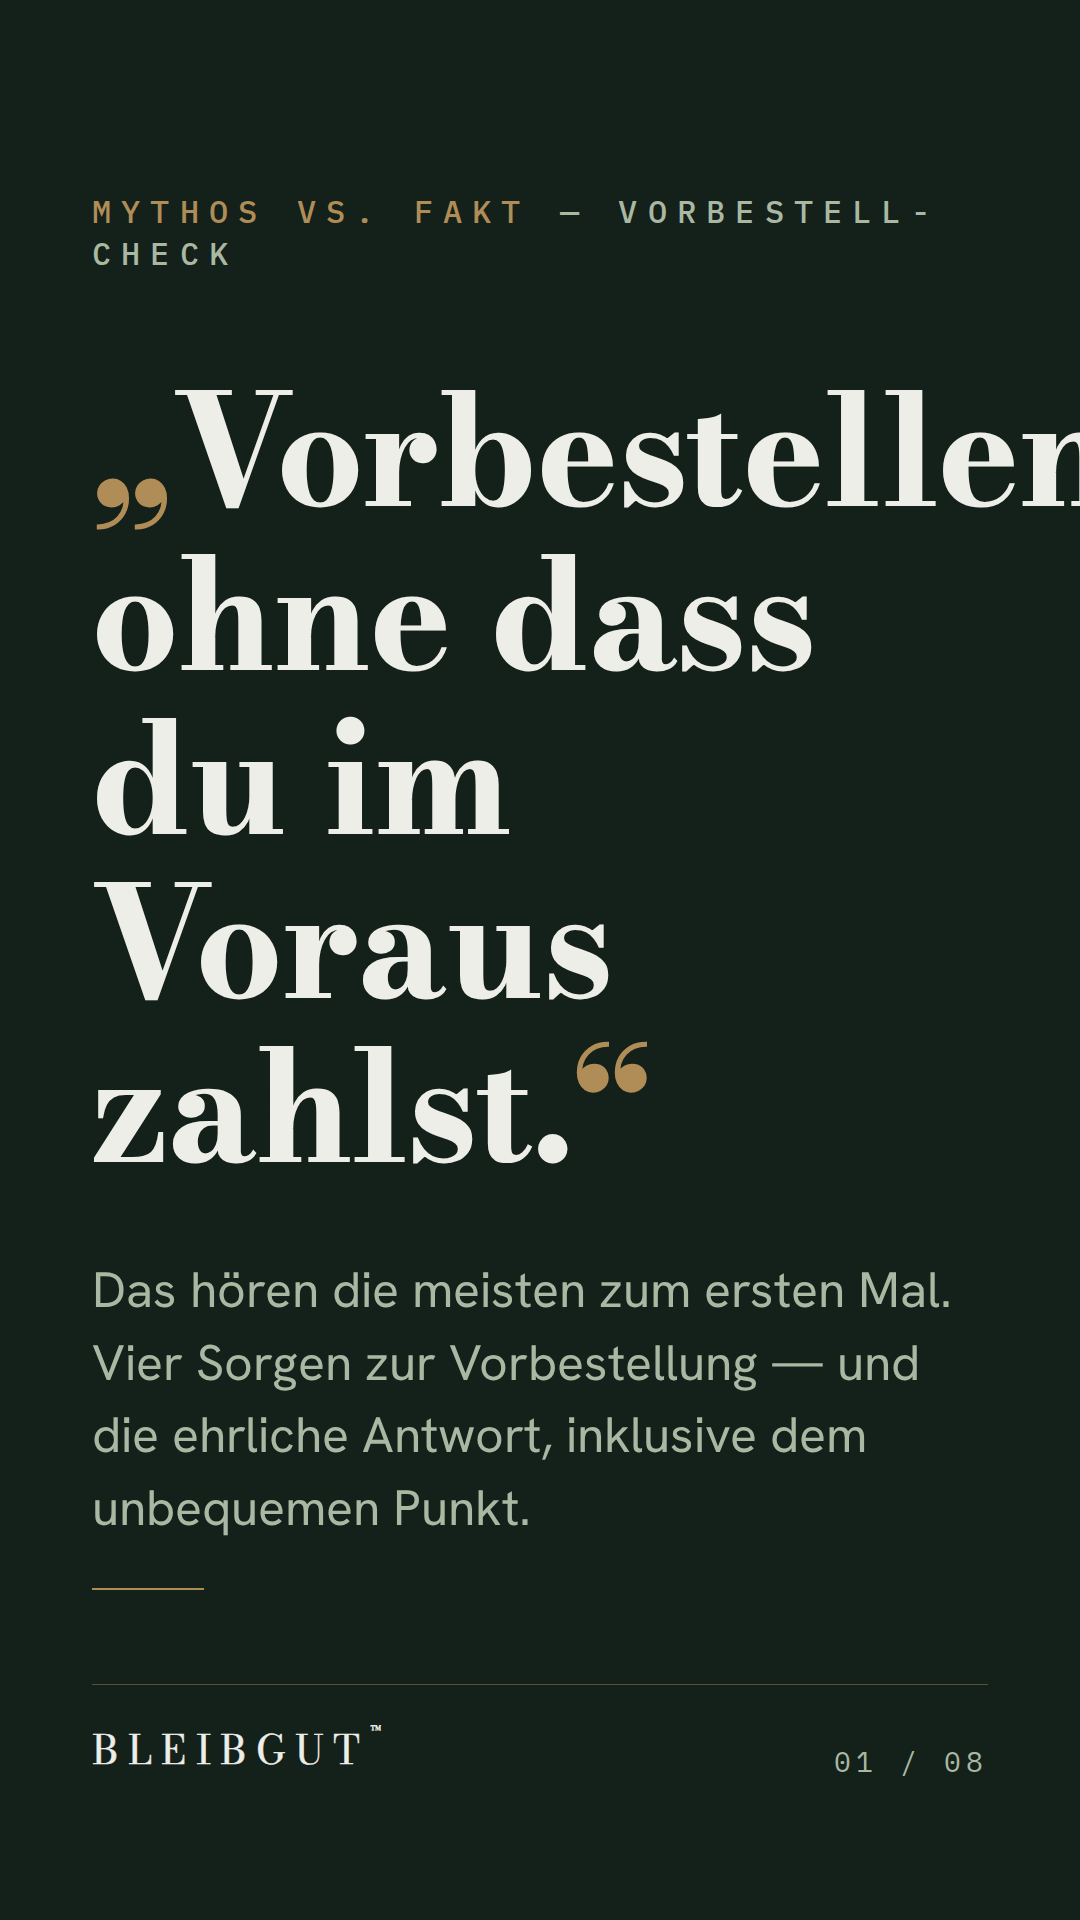
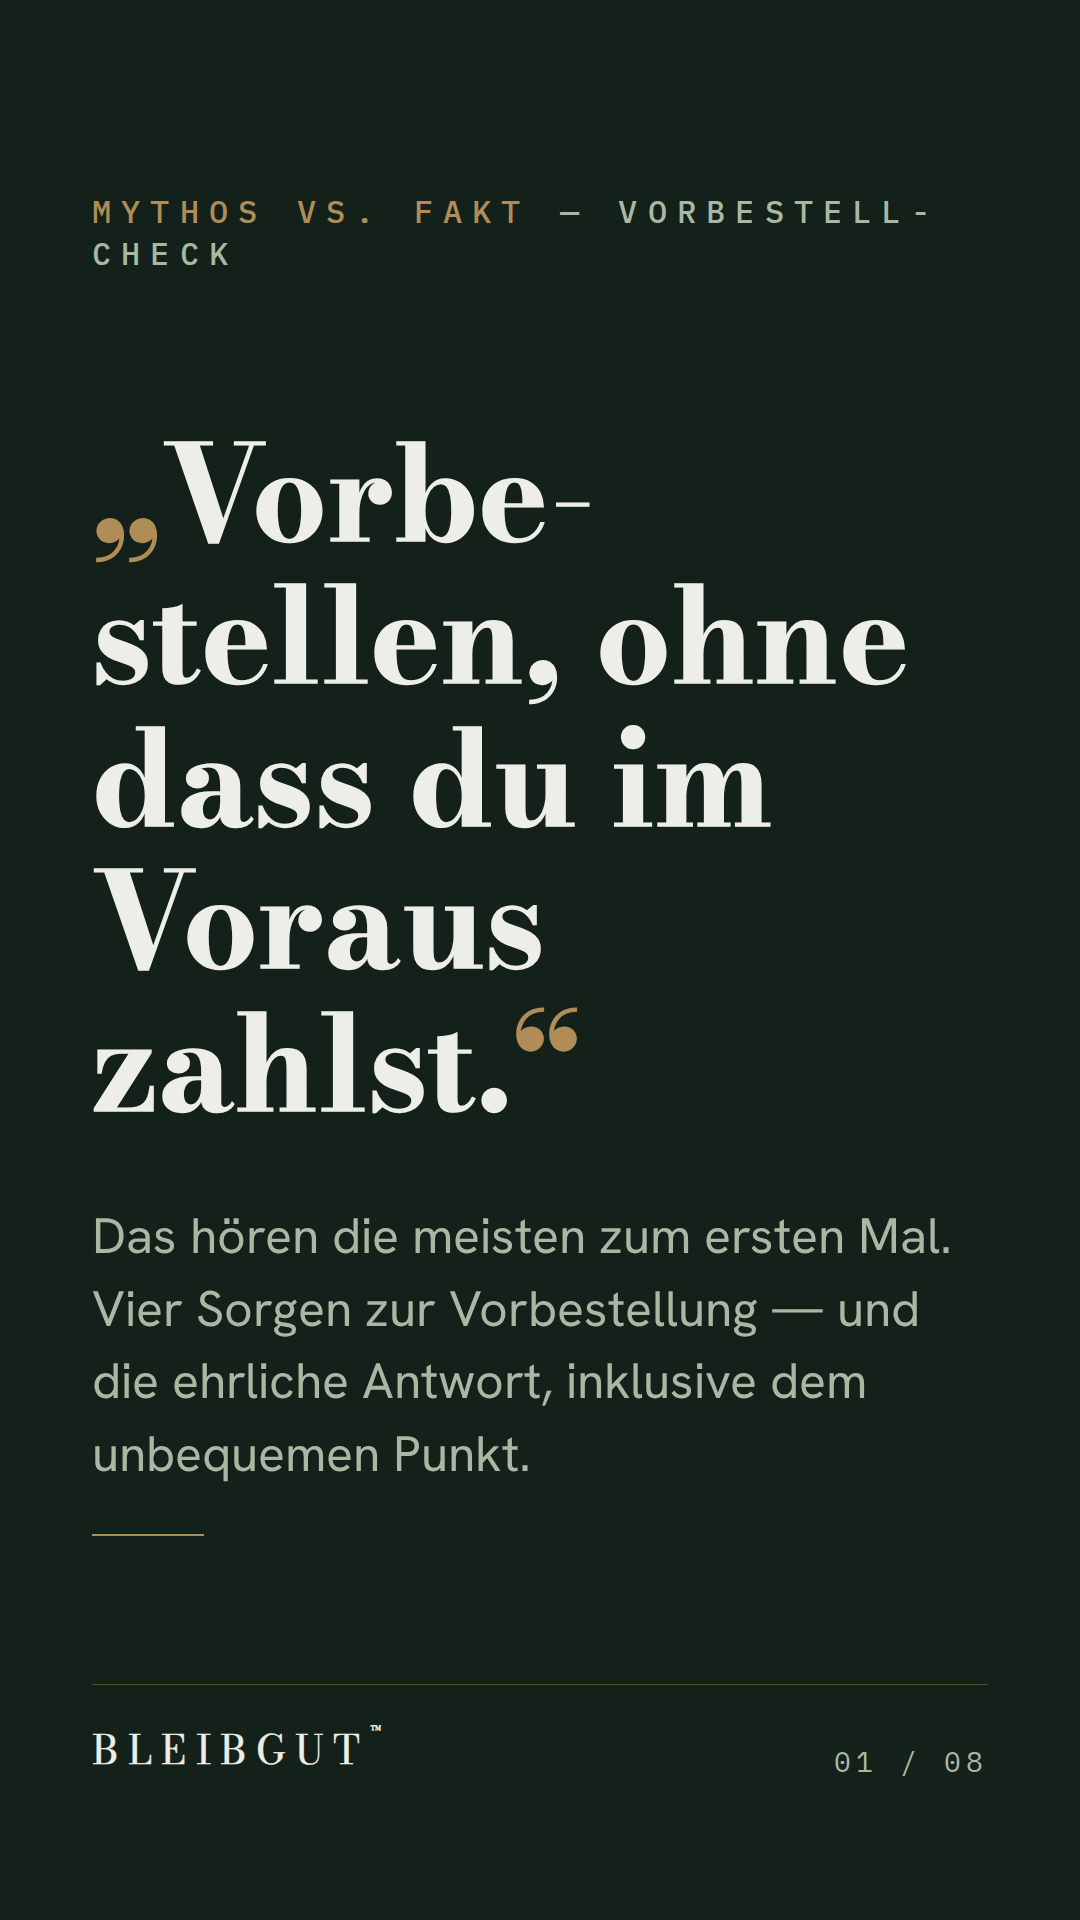
TikTok-Hook-Fix karussell-20260722-mythos-vs-fakt-vorbestell-check-vier-ver (Überlauf behoben)

Changed region(s): [[0.0917, 0.1875, 1.0, 0.8125]]

diff --git a/content-pipeline-quellen-fix/karussell-20260722-mythos-vs-fakt-vorbestell-check-vier-ver-slides.html b/content-pipeline-quellen-fix/karussell-20260722-mythos-vs-fakt-vorbestell-check-vier-ver-slides.html
@@ -1,0 +1,174 @@
+<!DOCTYPE html>
+<html lang="de">
+<head>
+<meta charset="UTF-8">
+<title>BLEIBGUT — Karussell 08: Vorbestell-Ehrlichkeit</title>
+<style>
+  :root{
+    --gruenschwarz:#14201A;
+    --papier:#EDEEE7;
+    --messing:#B08D57;
+    --dunkelmessing:#8F7042;
+    --salbei:#A9B8A3;
+    --espresso:#3B2A22;
+  }
+  @font-face{font-family:'Bodoni Moda';src:url('../fonts/bodoni-moda-latin-400-normal.woff2') format('woff2');font-weight:400;font-style:normal;}
+  @font-face{font-family:'Bodoni Moda';src:url('../fonts/bodoni-moda-latin-700-normal.woff2') format('woff2');font-weight:700;font-style:normal;}
+  @font-face{font-family:'Bodoni Moda';src:url('../fonts/bodoni-moda-latin-400-italic.woff2') format('woff2');font-weight:400;font-style:italic;}
+  @font-face{font-family:'Hanken Grotesk';src:url('../fonts/hanken-grotesk-latin-400-normal.woff2') format('woff2');font-weight:400;font-style:normal;}
+  @font-face{font-family:'Hanken Grotesk';src:url('../fonts/hanken-grotesk-latin-600-normal.woff2') format('woff2');font-weight:600;font-style:normal;}
+  @font-face{font-family:'Hanken Grotesk';src:url('../fonts/hanken-grotesk-latin-700-normal.woff2') format('woff2');font-weight:700;font-style:normal;}
+  @font-face{font-family:'IBM Plex Mono';src:url('../fonts/ibm-plex-mono-latin-400-normal.woff2') format('woff2');font-weight:400;font-style:normal;}
+  @font-face{font-family:'IBM Plex Mono';src:url('../fonts/ibm-plex-mono-latin-500-normal.woff2') format('woff2');font-weight:500;font-style:normal;}
+  *{margin:0;padding:0;box-sizing:border-box;}
+  html,body{width:1080px;height:1350px;background:var(--gruenschwarz);}
+  body{font-family:'Hanken Grotesk',sans-serif;color:var(--papier);-webkit-font-smoothing:antialiased;}
+  .slide{display:none;position:relative;width:1080px;height:1350px;background:var(--gruenschwarz);padding:96px 92px 84px;flex-direction:column;}
+  .slide.active{display:flex;}
+  .display{font-family:'Bodoni Moda',serif;-webkit-text-stroke:0.013em;}
+  .eyebrow{font-family:'IBM Plex Mono',monospace;font-weight:500;font-size:27px;letter-spacing:0.32em;text-transform:uppercase;color:var(--messing);}
+  .eyebrow .idx{color:var(--salbei);}
+  .rule{width:112px;height:2px;background:var(--messing);margin:44px 0 0;}
+  .center{flex:1;display:flex;flex-direction:column;justify-content:center;}
+  .footer{display:flex;justify-content:space-between;align-items:flex-end;border-top:1px solid rgba(176,141,87,0.45);padding-top:34px;}
+  .wordmark{font-family:'Bodoni Moda',serif;-webkit-text-stroke:0.013em;font-size:34px;letter-spacing:0.24em;color:var(--papier);}
+  .wordmark .tm{font-size:18px;vertical-align:top;letter-spacing:0;}
+  .pagenum{font-family:'IBM Plex Mono',monospace;font-size:24px;color:var(--salbei);letter-spacing:0.18em;}
+  .light{background:var(--papier);color:var(--gruenschwarz);}
+  .light .wordmark{color:var(--gruenschwarz);}
+  .light .footer{border-top-color:rgba(143,112,66,0.5);}
+  .light .eyebrow{color:var(--dunkelmessing);}
+  .light .pagenum{color:var(--dunkelmessing);}
+  .hook-quote{font-size:132px;line-height:1.08;font-weight:700;letter-spacing:0.005em;}
+  .hook-quote .qmark{color:var(--messing);}
+  .hook-sub{margin-top:58px;font-size:40px;line-height:1.45;font-weight:400;color:var(--salbei);max-width:760px;}
+  .mythos-label{display:inline-block;font-family:'IBM Plex Mono',monospace;font-size:26px;letter-spacing:0.3em;color:var(--papier);border:1.5px solid var(--dunkelmessing);padding:14px 26px 12px;}
+  .light .mythos-label{color:var(--gruenschwarz);border-color:var(--dunkelmessing);}
+  .mythos-text{font-family:'Bodoni Moda',serif;-webkit-text-stroke:0.013em;font-style:italic;font-weight:400;font-size:78px;line-height:1.18;margin-top:46px;color:var(--papier);opacity:0.92;}
+  .light .mythos-text{color:var(--espresso);}
+  .fakt-block{margin-top:78px;}
+  .fakt-label{font-family:'IBM Plex Mono',monospace;font-size:26px;letter-spacing:0.3em;color:var(--messing);}
+  .light .fakt-label{color:var(--dunkelmessing);}
+  .fakt-text{margin-top:30px;font-size:47px;line-height:1.42;font-weight:600;max-width:880px;}
+  .fakt-note{margin-top:34px;font-family:'IBM Plex Mono',monospace;font-size:23px;line-height:1.5;color:var(--salbei);letter-spacing:0.04em;}
+  .big-line{font-size:96px;line-height:1.12;font-weight:700;}
+  .big-line .accent{color:var(--messing);}
+  .body-text{margin-top:52px;font-size:43px;line-height:1.5;font-weight:400;max-width:860px;color:var(--papier);}
+  .light .body-text{color:var(--espresso);}
+  .cta-url{margin-top:64px;font-family:'IBM Plex Mono',monospace;font-size:36px;letter-spacing:0.14em;color:var(--messing);}
+  .cta-note{margin-top:20px;font-size:32px;color:var(--salbei);}
+  /* 9:16-Variante für TikTok/YouTube Shorts: ?f=tt — echtes 1920er-Layout, größere Typo */
+  html.tt, html.tt body{height:1920px;}
+  .tt .slide{height:1920px;padding:190px 92px 140px;}
+  .tt .eyebrow{font-size:32px;}
+  .tt .hook-quote{font-size:132px;}
+  .tt .hook-sub{font-size:50px;max-width:880px;margin-top:66px;}
+  .tt .mythos-label{font-size:30px;padding:16px 30px 14px;}
+  .tt .mythos-text{font-size:92px;margin-top:54px;}
+  .tt .fakt-block{margin-top:92px;}
+  .tt .fakt-label{font-size:30px;}
+  .tt .fakt-text{font-size:56px;max-width:900px;margin-top:36px;}
+  .tt .fakt-note{font-size:27px;margin-top:40px;}
+  .tt .big-line{font-size:112px;}
+  .tt .body-text{font-size:52px;max-width:900px;margin-top:60px;}
+  .tt .cta-url{font-size:44px;margin-top:76px;}
+  .tt .cta-note{font-size:38px;}
+  .tt .wordmark{font-size:40px;}
+  .tt .pagenum{font-size:28px;}
+</style>
+</head>
+<body>
+<section class="slide" data-s="1">
+  <div class="eyebrow">Mythos vs. Fakt <span class="idx">&mdash; Vorbestell-Check</span></div>
+  <div class="center">
+    <h1 class="display hook-quote"><span class="qmark">&bdquo;</span>Vorbe&shy;stellen, ohne dass du im Voraus zahlst.<span class="qmark">&ldquo;</span></h1>
+    <p class="hook-sub">Das h&ouml;ren die meisten zum ersten Mal. Vier Sorgen zur Vorbestellung &mdash; und die ehrliche Antwort, inklusive dem unbequemen Punkt.</p>
+    <div class="rule"></div>
+  </div>
+  <div class="footer"><span class="wordmark">BLEIBGUT<span class="tm">&trade;</span></span><span class="pagenum">01 / 08</span></div>
+</section>
+<section class="slide" data-s="2">
+  <div class="eyebrow">Mythos <span class="idx">1 / 4</span></div>
+  <div class="center">
+    <span class="mythos-label">MYTHOS</span>
+    <p class="mythos-text">&bdquo;Vorbestellen hei&szlig;t, ich zahle blind im Voraus.&ldquo;</p>
+    <div class="fakt-block">
+      <span class="fakt-label">FAKT</span>
+      <p class="fakt-text">Du bestellst ohne Vorkasse vor. Bezahlt wird erst, wenn dein G&uuml;rtel tats&auml;chlich verschickt wird &mdash; nicht vorher.</p>
+    </div>
+  </div>
+  <div class="footer"><span class="wordmark">BLEIBGUT<span class="tm">&trade;</span></span><span class="pagenum">02 / 08</span></div>
+</section>
+<section class="slide light" data-s="3">
+  <div class="eyebrow">Aber &mdash; der ehrliche Punkt</div>
+  <div class="center">
+    <h2 class="display big-line">Ja, du wartest bis September.</h2>
+    <p class="body-text">Kein Blitzversand, kein falsches Versprechen. Die Lieferung ist voraussichtlich ab September &mdash; das sagen wir dir jetzt, nicht erst nach der Bestellung.</p>
+    <div class="rule" style="background:var(--dunkelmessing);margin-top:52px;"></div>
+  </div>
+  <div class="footer"><span class="wordmark">BLEIBGUT<span class="tm">&trade;</span></span><span class="pagenum">03 / 08</span></div>
+</section>
+<section class="slide" data-s="4">
+  <div class="eyebrow">Mythos <span class="idx">2 / 4</span></div>
+  <div class="center">
+    <span class="mythos-label">MYTHOS</span>
+    <p class="mythos-text">&bdquo;Ohne Vorkasse hei&szlig;t bestimmt: versteckte Kosten.&ldquo;</p>
+    <div class="fakt-block">
+      <span class="fakt-label">FAKT</span>
+      <p class="fakt-text">Der Versand steht vorher fest: 5,99&nbsp;&euro; innerhalb Deutschlands, ab 99&nbsp;&euro; Bestellwert kostenlos. Nach &Ouml;sterreich 13,99&nbsp;&euro;. Keine &Uuml;berraschung an der Kasse.</p>
+    </div>
+  </div>
+  <div class="footer"><span class="wordmark">BLEIBGUT<span class="tm">&trade;</span></span><span class="pagenum">04 / 08</span></div>
+</section>
+<section class="slide" data-s="5">
+  <div class="eyebrow">Mythos <span class="idx">3 / 4</span></div>
+  <div class="center">
+    <span class="mythos-label">MYTHOS</span>
+    <p class="mythos-text">&bdquo;Ein Startpreis ist meistens ein Lockangebot, das sp&auml;ter steigt.&ldquo;</p>
+    <div class="fakt-block">
+      <span class="fakt-label">FAKT</span>
+      <p class="fakt-text">Hier stimmt es nicht: Der Pre-Order-Preis liegt unter dem sp&auml;teren Regul&auml;rpreis &mdash; der Herreng&uuml;rtel zum Beispiel 74&nbsp;&euro; statt 89&nbsp;&euro;.</p>
+      <p class="fakt-note">Kein Trick, sondern Dank f&uuml;r fr&uuml;hes Vertrauen &mdash; alle Pre-Order-Preise stehen offen auf bleibgut.de.</p>
+    </div>
+  </div>
+  <div class="footer"><span class="wordmark">BLEIBGUT<span class="tm">&trade;</span></span><span class="pagenum">05 / 08</span></div>
+</section>
+<section class="slide" data-s="6">
+  <div class="eyebrow">Mythos <span class="idx">4 / 4</span></div>
+  <div class="center">
+    <span class="mythos-label">MYTHOS</span>
+    <p class="mythos-text">&bdquo;Eine neue Marke ohne Track-Record &mdash; wer kauft da vor?&ldquo;</p>
+    <div class="fakt-block">
+      <span class="fakt-label">FAKT</span>
+      <p class="fakt-text">Wir sind neu, das stimmt. Deshalb zeigen wir lieber zu viel als zu wenig: Material, Lieferzeit, Preise &mdash; offen einsehbar, nicht erst nach dem Kauf.</p>
+    </div>
+  </div>
+  <div class="footer"><span class="wordmark">BLEIBGUT<span class="tm">&trade;</span></span><span class="pagenum">06 / 08</span></div>
+</section>
+<section class="slide" data-s="7">
+  <div class="eyebrow">Worauf es ankommt</div>
+  <div class="center">
+    <h2 class="display big-line">Vertrauen entsteht nicht durch Werbung, sondern durch <span class="accent">Ehrlichkeit.</span></h2>
+    <p class="body-text">Kein Vorkasse-Risiko, klare Versandkosten, ein fairer Pre-Order-Preis. Ob du vorbestellst, entscheidest du &mdash; mit allen Informationen, nicht trotz fehlender.</p>
+  </div>
+  <div class="footer"><span class="wordmark">BLEIBGUT<span class="tm">&trade;</span></span><span class="pagenum">07 / 08</span></div>
+</section>
+<section class="slide" data-s="8">
+  <div class="eyebrow">Merken lohnt sich</div>
+  <div class="center">
+    <h2 class="display big-line">Speichern &mdash; f&uuml;r den Moment, in dem du <span class="accent">bereit bist.</span></h2>
+    <p class="body-text">Fragen zur Vorbestellung? Schreib sie in die Kommentare &mdash; wir antworten ehrlich, auch wenn es um Wartezeit geht.</p>
+    <p class="cta-url">bleibgut.de</p>
+    <p class="cta-note">Vorbestellung ohne Vorkasse &middot; #bleibgut</p>
+  </div>
+  <div class="footer"><span class="wordmark">BLEIBGUT<span class="tm">&trade;</span></span><span class="pagenum">08 / 08</span></div>
+</section>
+<script>
+  var p = new URLSearchParams(location.search);
+  var n = parseInt(p.get('s') || '1', 10);
+  if (isNaN(n) || n < 1 || n > 8) n = 1;
+  document.querySelector('.slide[data-s="' + n + '"]').classList.add('active');
+  if (p.get('f') === 'tt') document.documentElement.classList.add('tt');
+</script>
+</body>
+</html>